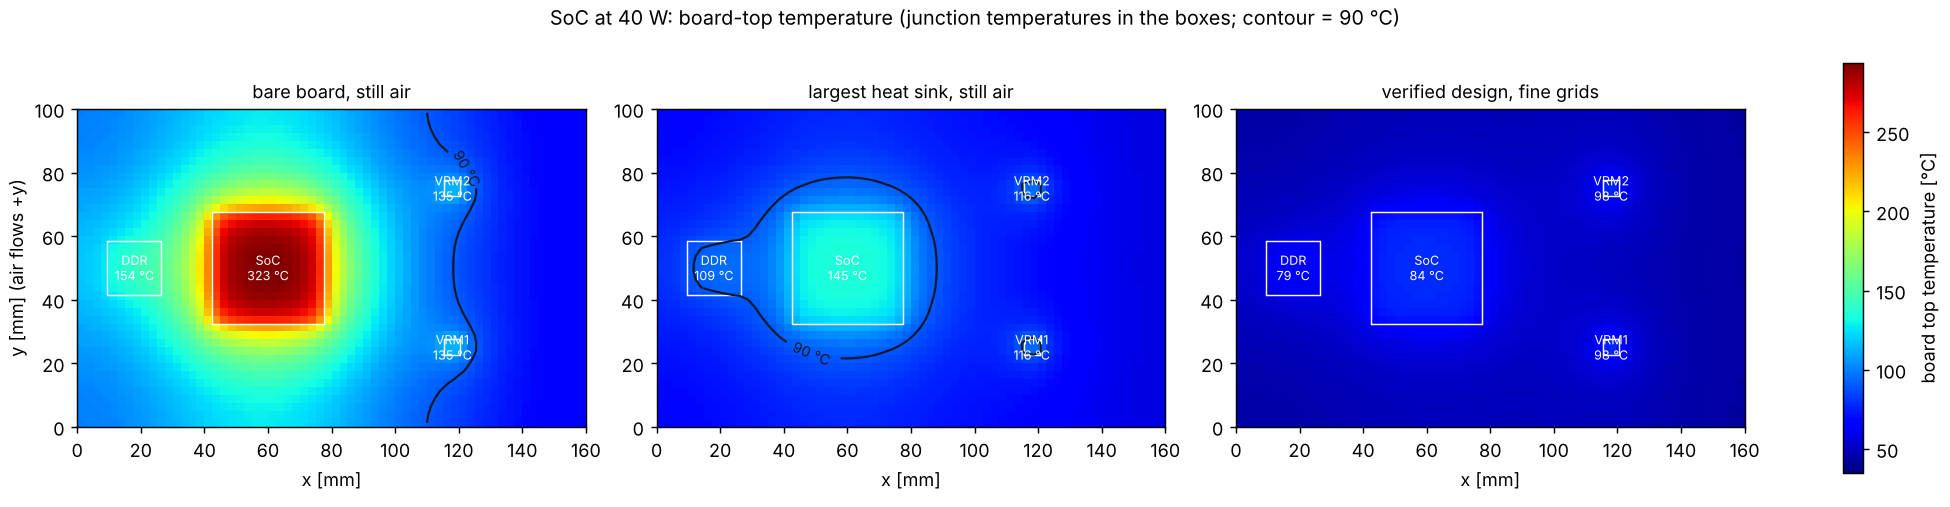
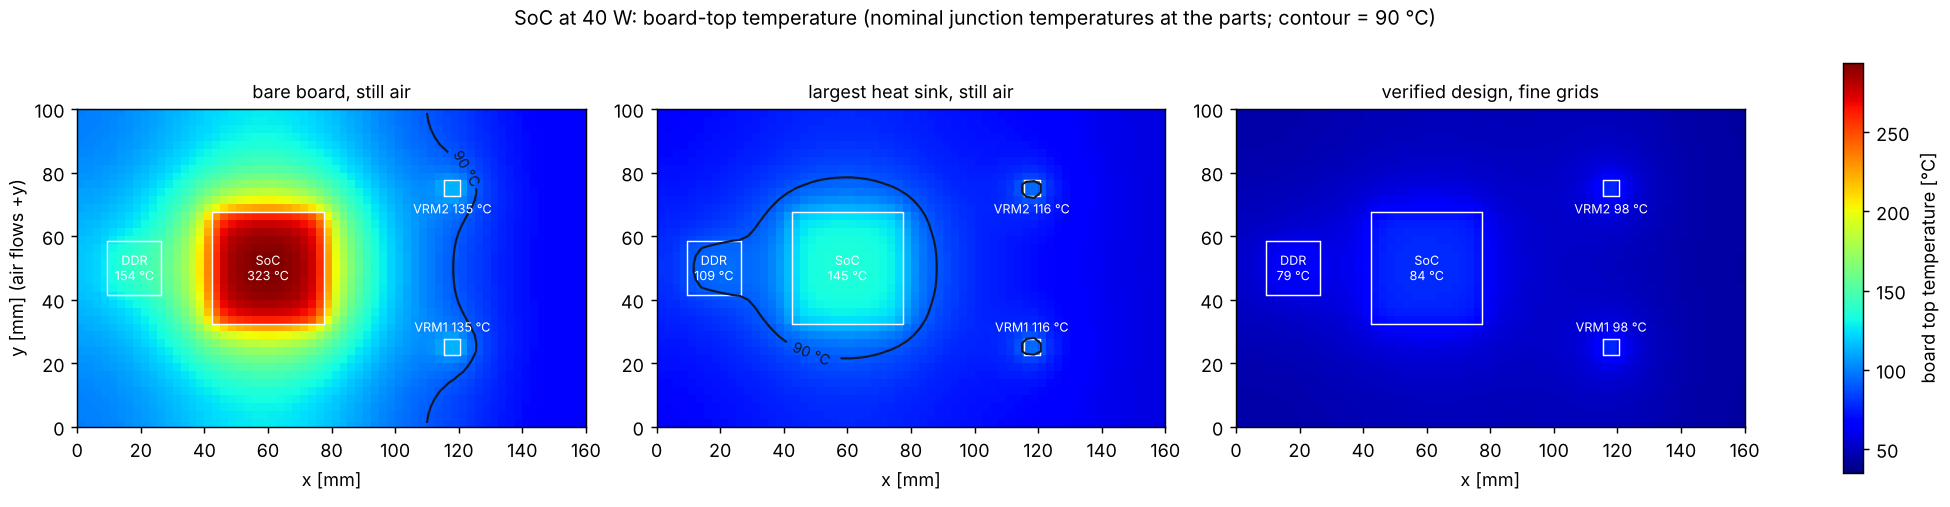
Board-cooling figures: part labels beside small boxes, nominal / pessimistic stated
maps_before_after.png: labels of the small parts (VRM1, VRM2) sit beside their
box instead of over its edges; the title says the part temperatures are nominal.
tmax_evolution.png: each bar says whether it is nominal or pessimistic. Figures
regenerated from a fresh run of the same study (same numbers to 1e-11).

Claude-Session: https://claude.ai/code/session_01FczBzHxtuXoXmhp329pDfp

diff --git a/pinneapple_design/thermal/board_cooling/report.py b/pinneapple_design/thermal/board_cooling/report.py
@@ -50,15 +50,18 @@ def figure_maps(state, path: str) -> str:
             rc = c.resolved()
             a.add_patch(plt.Rectangle((rc.x_mm - rc.w_mm / 2, rc.y_mm - rc.d_mm / 2), rc.w_mm, rc.d_mm, fill=False,
                                       ec="white", lw=0.8))
-            a.text(rc.x_mm, rc.y_mm, f"{c.name}\n{r['tj_c'][c.name]:.0f} °C", color="white", fontsize=7,
-                   ha="center", va="center")
+            big = min(rc.w_mm, rc.d_mm) >= 15                  # small parts: label beside the box, not over it
+            above = rc.y_mm < 0.5 * m.board.depth_mm
+            a.text(rc.x_mm, rc.y_mm if big else (rc.y_mm + rc.d_mm / 2 + 1.5 if above else rc.y_mm - rc.d_mm / 2 - 1.5),
+                   f"{c.name}\n{r['tj_c'][c.name]:.0f} °C" if big else f"{c.name} {r['tj_c'][c.name]:.0f} °C",
+                   color="white", fontsize=7, ha="center", va="center" if big else ("bottom" if above else "top"))
         a.set_title(lab, fontsize=10)
         a.set_aspect("equal")
         a.set_xlabel("x [mm]")
     ax[0].set_ylabel("y [mm] (air flows +y)")
     fig.colorbar(im, ax=ax, label="board top temperature [°C]", shrink=0.9)
-    fig.suptitle(f"{m.hot} at {m.hot_component().power_w:g} W: board-top temperature (junction temperatures in the "
-                 f"boxes; contour = {m.tj_limit_c:.0f} °C)", fontsize=11)
+    fig.suptitle(f"{m.hot} at {m.hot_component().power_w:g} W: board-top temperature (nominal junction temperatures "
+                 f"at the parts; contour = {m.tj_limit_c:.0f} °C)", fontsize=11)
     fig.savefig(path, dpi=130)
     plt.close(fig)
     return path
@@ -72,9 +75,9 @@ def figure_evolution(state, path: str) -> str:
     loop = state["optimize"]["loop"]
     fig, ax = plt.subplots(1, 2, figsize=(13, 4.2), constrained_layout=True)
     a = ax[0]
-    pts = [("bare board", state["baseline"]["tj_hot_c"])]
+    pts = [("bare board\n(nominal)", state["baseline"]["tj_hot_c"])]
     if "screen_natural" in state:
-        pts.append(("still-air sink", state["screen_natural"]["tj_hot_pessimistic_c"]))
+        pts.append(("still-air sink\n(pessimistic)", state["screen_natural"]["tj_hot_pessimistic_c"]))
     for i, (_, v) in enumerate(pts):
         a.bar(i, v, color="#ef4444" if v > m.tj_limit_c else "#22c55e")
         a.text(i, v, f"{v:.0f} °C", ha="center", va="bottom", fontsize=9)
@@ -88,9 +91,9 @@ def figure_evolution(state, path: str) -> str:
     a.text(k0 + len(loop["rounds"]), vf, f"{vf:.1f} °C", ha="center", va="bottom", fontsize=9)
     a.axhline(m.tj_limit_c, color=T_LIM_COLOR, ls="--", lw=1)
     a.set_xticks(range(k0 + len(loop["rounds"]) + 1),
-                 [p[0] for p in pts] + [f"round {r['round']}\n(reference)" for r in loop["rounds"]]
-                 + ["verified\n(fine grids)"], fontsize=8)
-    a.set_ylabel(f"Tj {m.hot} [°C] (pessimistic cooling where a sink is fitted)")
+                 [p[0] for p in pts] + [f"round {r['round']}\n(reference,\npessimistic)" for r in loop["rounds"]]
+                 + ["verified\n(fine grids,\npessimistic)"], fontsize=8)
+    a.set_ylabel(f"Tj {m.hot} [°C]")
     a.set_title("Hot-spot temperature, measured at each stage")
     b = ax[1]
     b2 = b.twinx()
